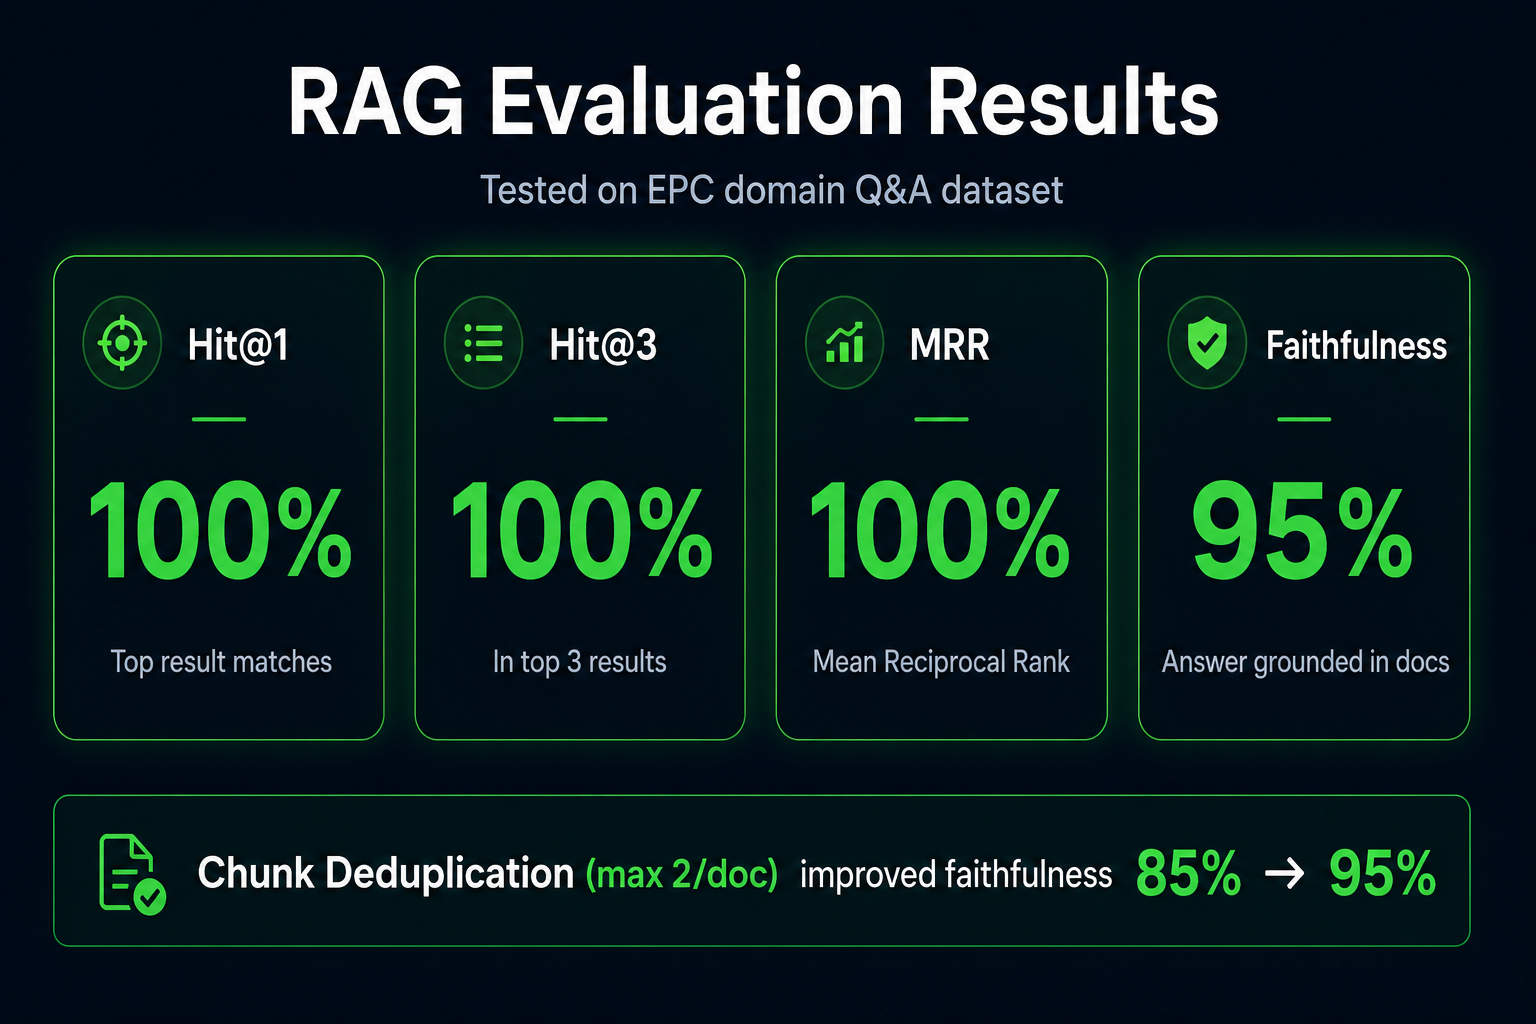
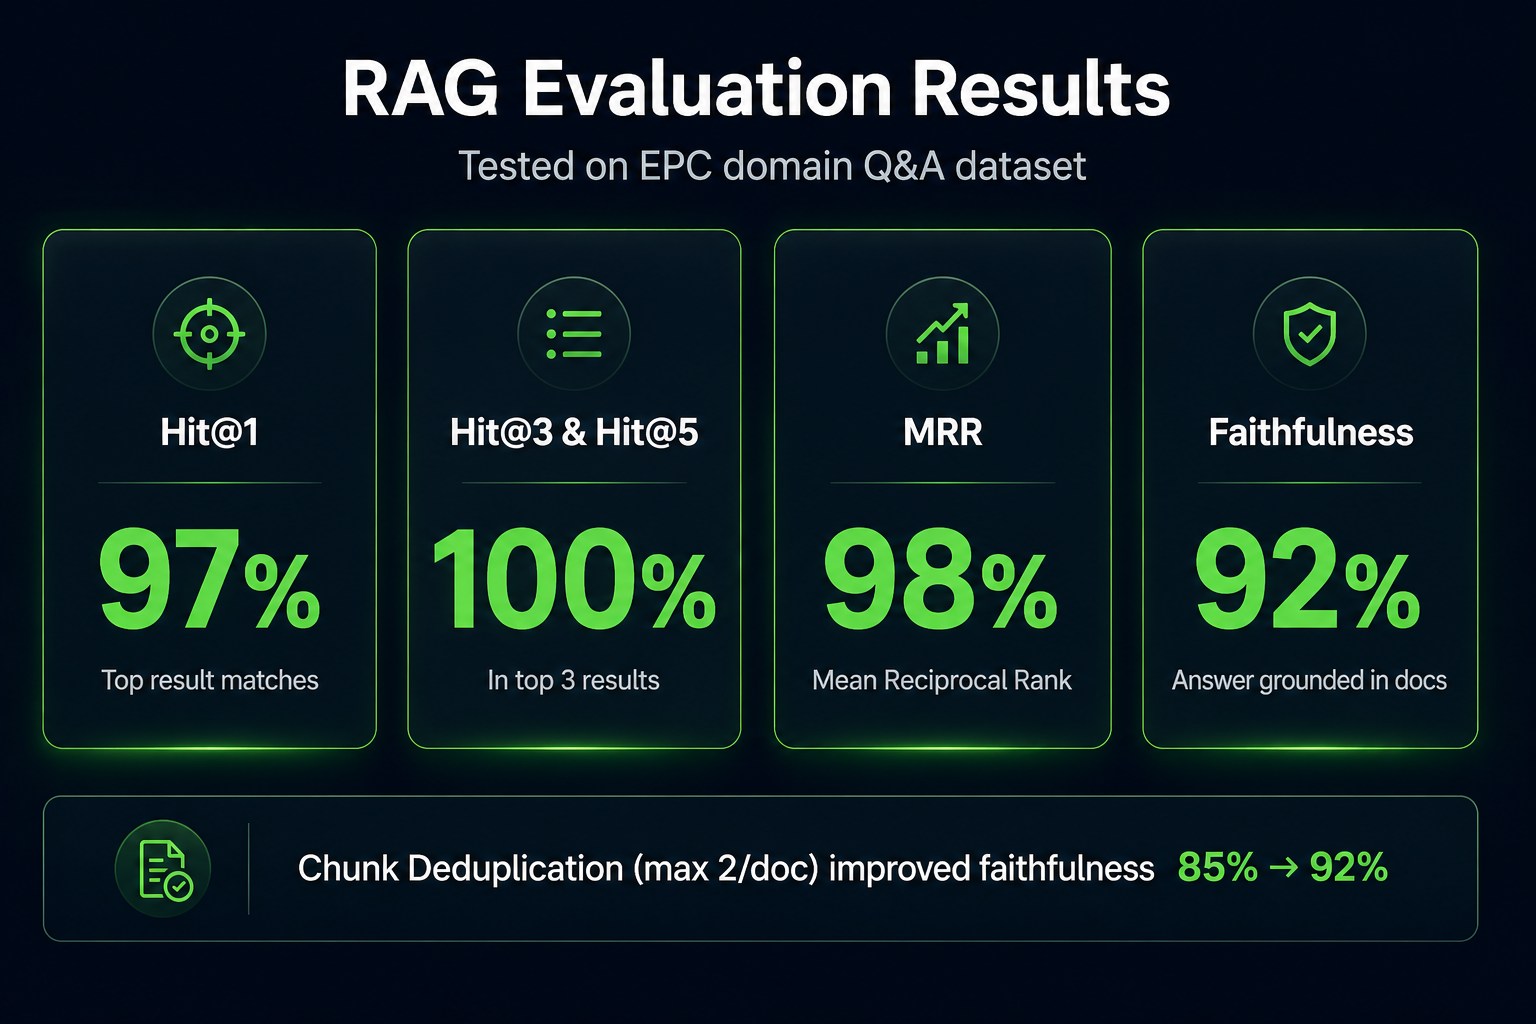
Update README and technical document

diff --git a/api/main.py b/api/main.py
@@ -161,7 +161,7 @@ async def generate_eval_questions(doc_id: str, filename: str, doc_type: str, tex
         f"Document: {filename}\nType: {doc_type}\n\nContent:\n{text[:4000]}"
     )
     try:
-        async with httpx.AsyncClient(timeout=120) as client:
+        async with httpx.AsyncClient(timeout=300) as client:
             r = await client.post(
                 f"{OLLAMA_URL}/api/generate",
                 json={"model": "mistral:7b", "prompt": prompt, "stream": False, "num_predict": 1000}